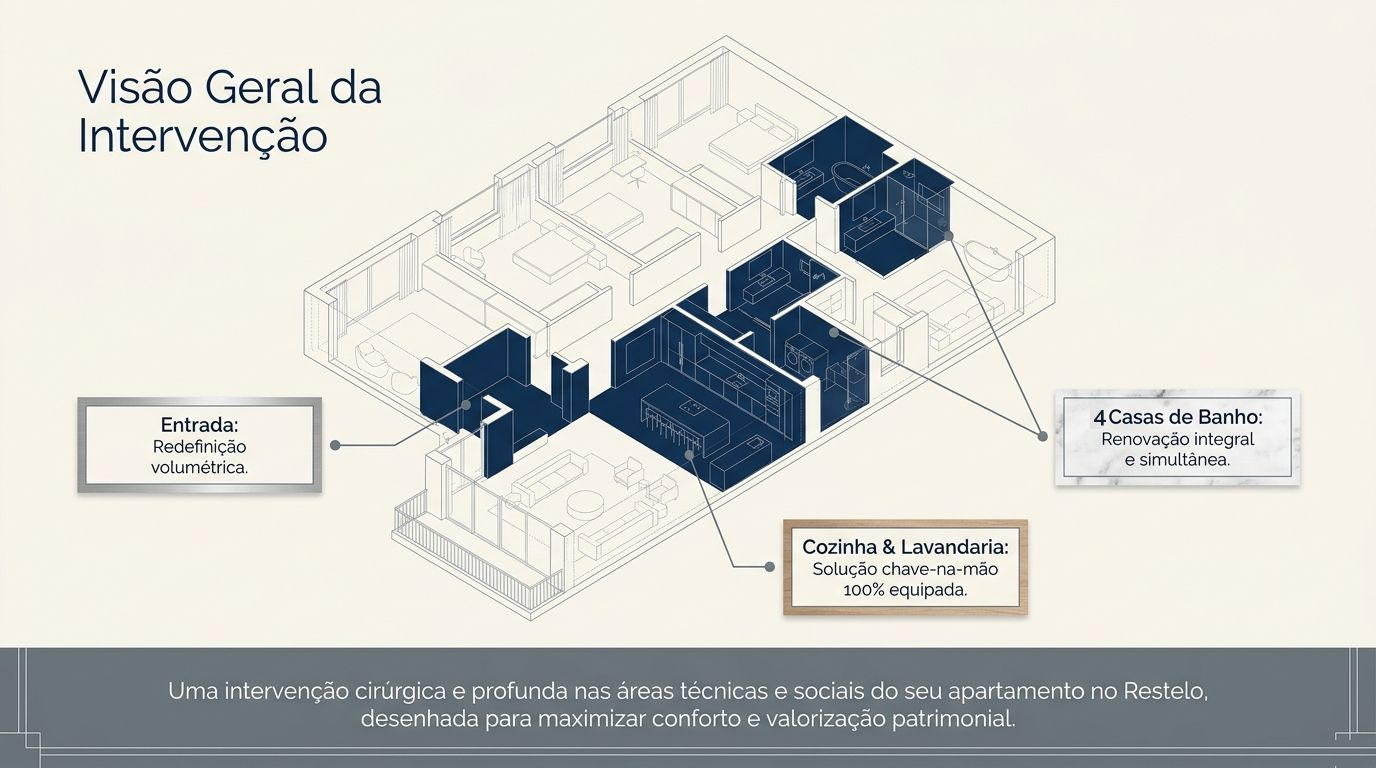
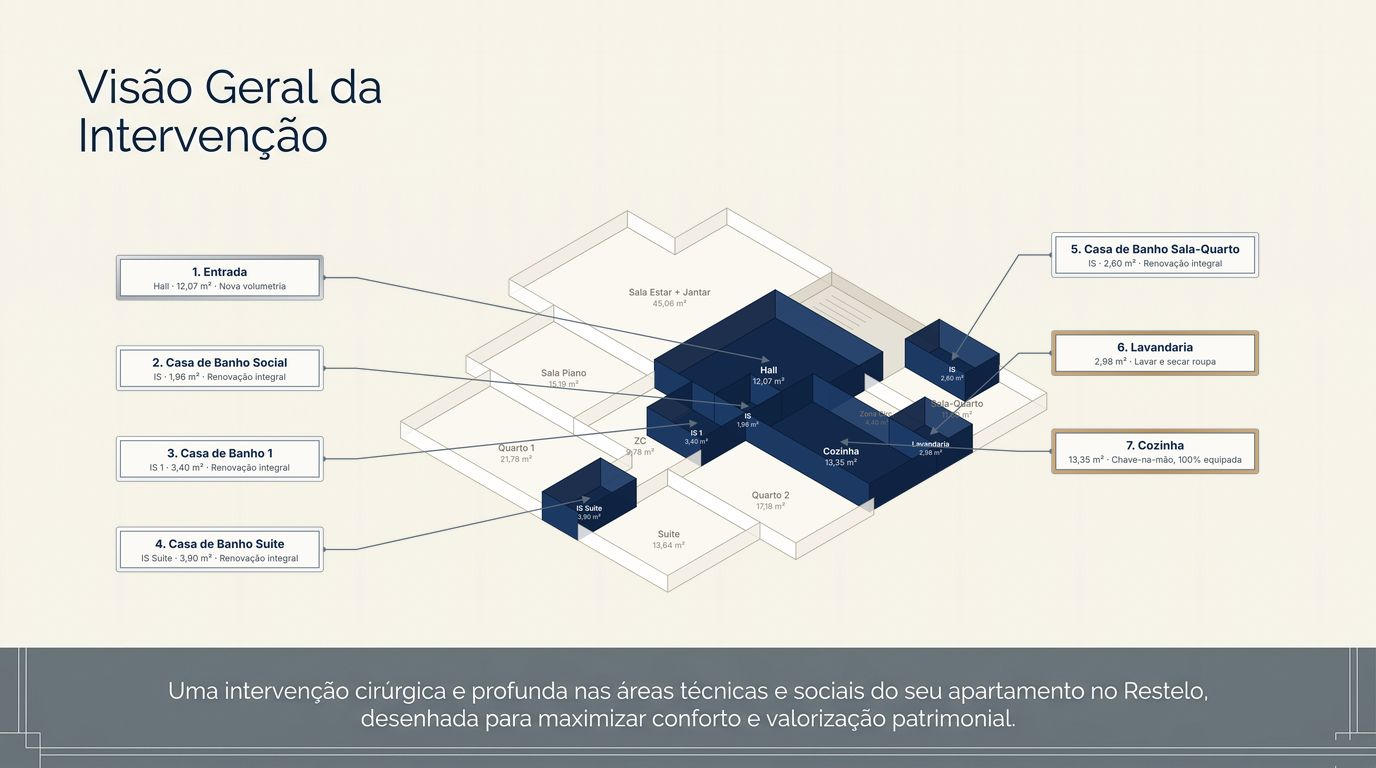
Replace floor plan with a 3D plan of the new layout and 7 division callouts
plan3d.js draws the Planta_Casa_1 layout as an interactive isometric SVG,
raising the 7 intervened divisions (entrance, kitchen, laundry and the four
bathrooms) with an arrow callout for each. Slide 2 in the gallery is rebuilt
from the same drawing.

Claude-Session: https://claude.ai/code/session_01E4dV568mypNGXeEQefmwmq

Changed region(s): [[0.0312, 0.0625, 0.9688, 0.8125], [0.0938, 0.6875, 0.25, 0.75]]

diff --git a/plan3d.js b/plan3d.js
@@ -1,0 +1,134 @@
+/* Isometric 3D floor plan of the Restelo T4 (layout from Planta_Casa_1), drawn as SVG.
+   Coordinates are in pixels of the original 2D plan; the 7 intervened divisions are raised in navy
+   and each one gets a callout with an arrow. */
+(function () {
+  const ROOMS = [
+    // id, label, area, polygon, zone (null = not intervened)
+    { id: 'sala', name: 'Sala Estar + Jantar', area: '45,06', zone: null, pts: [[105, 100], [158, 100], [158, 42], [275, 42], [275, 232], [105, 232]] },
+    { id: 'core', name: 'Escadas', area: '', zone: null, core: true, pts: [[275, 42], [395, 42], [395, 105], [275, 105]] },
+    { id: 'hall', name: 'Hall', area: '12,07', zone: 'entrada', pts: [[275, 105], [395, 105], [395, 165], [377, 165], [377, 200], [342, 200], [342, 240], [275, 240]] },
+    { id: 'is_sq', name: 'IS', area: '2,60', zone: 'wc', pts: [[395, 42], [462, 42], [462, 80], [395, 80]] },
+    { id: 'salaquarto', name: 'Sala-Quarto', area: '11,60', zone: null, pts: [[462, 42], [515, 42], [515, 125], [395, 125], [395, 80], [462, 80]] },
+    { id: 'zcirc', name: 'Zona Circ.', area: '4,40', zone: null, pts: [[395, 125], [462, 125], [462, 165], [395, 165]] },
+    { id: 'lav', name: 'Lavandaria', area: '2,98', zone: 'lavandaria', pts: [[462, 125], [515, 125], [515, 165], [462, 165]] },
+    { id: 'coz', name: 'Cozinha', area: '13,35', zone: 'cozinha', pts: [[377, 165], [515, 165], [515, 240], [377, 240]] },
+    { id: 'is_soc', name: 'IS', area: '1,96', zone: 'wc', pts: [[342, 200], [377, 200], [377, 240], [342, 240]] },
+    { id: 'piano', name: 'Sala Piano', area: '15,19', zone: null, pts: [[155, 232], [275, 232], [275, 330], [155, 330]] },
+    { id: 'is1', name: 'IS 1', area: '3,40', zone: 'wc', pts: [[317, 240], [377, 240], [377, 290], [317, 290]] },
+    { id: 'zc', name: 'ZC', area: '9,78', zone: null, pts: [[275, 240], [317, 240], [317, 290], [377, 290], [377, 365], [340, 365], [340, 330], [275, 330]] },
+    { id: 'q2', name: 'Quarto 2', area: '17,18', zone: null, pts: [[377, 240], [520, 240], [520, 327], [377, 327]] },
+    { id: 'q1', name: 'Quarto 1', area: '21,78', zone: null, pts: [[182, 330], [340, 330], [340, 430], [182, 430]] },
+    { id: 'is_suite', name: 'IS Suite', area: '3,90', zone: 'wc', pts: [[340, 365], [380, 365], [380, 430], [340, 430]] },
+    { id: 'suite', name: 'Suite', area: '13,64', zone: null, pts: [[377, 327], [480, 327], [480, 430], [380, 430], [380, 365], [377, 365]] }
+  ];
+
+  // callouts: room id, title, subtitle, side, vertical slot (0..1), card style
+  const CALLOUTS = [
+    { room: 'hall', title: 'Entrada', sub: 'Hall · 12,07 m² · Nova volumetria', side: 'L', y: 0.16, style: 'steel' },
+    { room: 'is_soc', title: 'Casa de Banho Social', sub: 'IS · 1,96 m² · Renovação integral', side: 'L', y: 0.40, style: 'marble' },
+    { room: 'is1', title: 'Casa de Banho 1', sub: 'IS 1 · 3,40 m² · Renovação integral', side: 'L', y: 0.64, style: 'marble' },
+    { room: 'is_suite', title: 'Casa de Banho Suite', sub: 'IS Suite · 3,90 m² · Renovação integral', side: 'L', y: 0.88, style: 'marble' },
+    { room: 'is_sq', title: 'Casa de Banho Sala-Quarto', sub: 'IS · 2,60 m² · Renovação integral', side: 'R', y: 0.10, style: 'marble' },
+    { room: 'lav', title: 'Lavandaria', sub: '2,98 m² · Lavar e secar roupa', side: 'R', y: 0.36, style: 'wood' },
+    { room: 'coz', title: 'Cozinha', sub: '13,35 m² · Chave-na-mão, 100% equipada', side: 'R', y: 0.62, style: 'wood' }
+  ];
+
+  const W = 1400, H = 570, S = 1.25, C = Math.cos(Math.PI / 6), SN = 0.5;
+  const OX = 622, OY = 66;
+  const prj = (x, y, z = 0) => [OX + (x - y) * C * S, OY + (x + y - 200) * SN * S - z];
+  const pts = a => a.map(p => p.map(v => v.toFixed(1)).join(',')).join(' ');
+  const centroid = poly => {
+    let a = 0, cx = 0, cy = 0;
+    poly.forEach((p, i) => {
+      const q = poly[(i + 1) % poly.length], f = p[0] * q[1] - q[0] * p[1];
+      a += f; cx += (p[0] + q[0]) * f; cy += (p[1] + q[1]) * f;
+    });
+    return [cx / (3 * a), cy / (3 * a)];
+  };
+  const esc = s => s.replace(/&/g, '&amp;').replace(/</g, '&lt;');
+
+  function render(svg, opts = {}) {
+    const NS = 'http://www.w3.org/2000/svg';
+    const faces = [];
+    // edges of the raised rooms: a neighbour's low wall on the same line would cover them
+    const hiEdges = [];
+    ROOMS.filter(r => r.zone).forEach(r => r.pts.forEach((p, i) => hiEdges.push([p, r.pts[(i + 1) % r.pts.length]])));
+    const onHiEdge = (p, q) => hiEdges.some(([a, b]) => {
+      const k = a[0] === b[0] ? 0 : a[1] === b[1] ? 1 : -1;
+      if (k < 0 || p[k] !== q[k] || p[k] !== a[k]) return false;
+      const j = 1 - k, lo = Math.min(a[j], b[j]), hi = Math.max(a[j], b[j]);
+      return Math.min(p[j], q[j]) < hi && Math.max(p[j], q[j]) > lo;
+    });
+    ROOMS.forEach(r => {
+      const hi = !!r.zone, h = r.core ? 16 : hi ? 34 : 20;
+      r.pts.forEach((p, i) => {
+        const q = r.pts[(i + 1) % r.pts.length];
+        if (!hi && onHiEdge(p, q)) return;
+        const along = Math.abs(q[0] - p[0]) > Math.abs(q[1] - p[1]);
+        faces.push({ r, hi, d: (p[0] + q[0] + p[1] + q[1]) / 2, along,
+          poly: [prj(p[0], p[1]), prj(q[0], q[1]), prj(q[0], q[1], h), prj(p[0], p[1], h)] });
+      });
+    });
+    faces.sort((a, b) => a.d - b.d);
+
+    let out = `<defs>
+      <marker id="p3arrow" viewBox="0 0 10 10" refX="8.5" refY="5" markerWidth="7" markerHeight="7" orient="auto-start-reverse">
+        <path d="M0,0 L10,5 L0,10 z" fill="#5d6c7b"/></marker>
+      <linearGradient id="p3marble" x1="0" y1="0" x2="1" y2="1"><stop offset="0" stop-color="#ffffff"/><stop offset=".55" stop-color="#eef0f2"/><stop offset="1" stop-color="#f8f8f8"/></linearGradient>
+      <linearGradient id="p3wood" x1="0" y1="0" x2="1" y2="0"><stop offset="0" stop-color="#c8a679"/><stop offset=".5" stop-color="#b8925f"/><stop offset="1" stop-color="#caa87b"/></linearGradient>
+      <linearGradient id="p3steel" x1="0" y1="0" x2="1" y2="1"><stop offset="0" stop-color="#e3e5e7"/><stop offset=".5" stop-color="#a9adb1"/><stop offset="1" stop-color="#d9dbdd"/></linearGradient>
+    </defs>`;
+    // floors
+    ROOMS.forEach(r => {
+      const fill = r.core ? '#e6e1d6' : r.zone ? '#13294b' : '#fbf8f1';
+      out += `<polygon class="p3-floor${r.zone ? ' p3-hi' : ''}" data-room="${r.id}"${r.zone ? ` data-zone="${r.zone}"` : ''}
+        points="${pts(r.pts.map(p => prj(p[0], p[1])))}" fill="${fill}" stroke="${r.zone ? '#0c1d38' : '#b7b0a2'}" stroke-width="1"/>`;
+      if (r.core) {
+        for (let k = 0; k < 7; k++) {
+          const y = 52 + k * 7;
+          out += `<polyline points="${pts([prj(285, y), prj(330, y)])}" stroke="#b7b0a2" stroke-width=".8" fill="none"/>`;
+        }
+      }
+    });
+    // walls (painter's order)
+    faces.forEach(f => {
+      const fill = f.hi ? (f.along ? '#1d3a66' : '#0f2242') : f.r.core ? '#d8d2c4' : (f.along ? '#ffffff' : '#f1ede4');
+      const stroke = f.hi ? '#0b1a33' : '#a9a293';
+      out += `<polygon class="p3-wall${f.hi ? ' p3-hi' : ''}" data-room="${f.r.id}"${f.r.zone ? ` data-zone="${f.r.zone}"` : ''}
+        points="${pts(f.poly)}" fill="${fill}" fill-opacity="${f.hi ? 0.94 : 0.82}" stroke="${stroke}" stroke-width=".8"/>`;
+    });
+    // room labels
+    ROOMS.forEach(r => {
+      if (r.core) return;
+      const [cx, cy] = centroid(r.pts), [x, y] = prj(cx, cy, r.zone ? 2 : 1);
+      const col = r.zone ? '#ffffff' : '#7a7468';
+      const small = (r.pts.length && (Math.max(...r.pts.map(p => p[0])) - Math.min(...r.pts.map(p => p[0]))) < 70);
+      out += `<g class="p3-label" pointer-events="none" font-family="Inter, system-ui, sans-serif" text-anchor="middle" fill="${col}">
+        <text x="${x.toFixed(1)}" y="${(y - 1).toFixed(1)}" font-size="${small ? 8.5 : 11}" font-weight="${r.zone ? 600 : 500}">${esc(r.name)}</text>
+        <text x="${x.toFixed(1)}" y="${(y + (small ? 9 : 12)).toFixed(1)}" font-size="${small ? 7.5 : 9.5}" opacity=".85">${r.area} m²</text></g>`;
+    });
+    // callouts
+    const BW = 250, BH = 54, MX = 10;
+    CALLOUTS.forEach((c, i) => {
+      const r = ROOMS.find(o => o.id === c.room);
+      const [cx, cy] = centroid(r.pts), [ax, ay] = prj(cx, cy, 18);
+      const bx = c.side === 'L' ? MX : W - MX - BW, by = 30 + c.y * (H - 60 - BH);
+      const sx = c.side === 'L' ? bx + BW : bx, sy = by + BH / 2;
+      const midx = c.side === 'L' ? sx + 40 : sx - 40;
+      const frame = c.style === 'wood' ? 'url(#p3wood)' : c.style === 'steel' ? 'url(#p3steel)' : 'url(#p3marble)';
+      out += `<g class="p3-callout" data-zone="${r.zone}" data-room="${r.id}" tabindex="0" role="button" aria-label="${esc(c.title)}">
+        <polyline points="${pts([[sx, sy], [midx, sy], [ax, ay]])}" fill="none" stroke="#5d6c7b" stroke-width="1.4" marker-end="url(#p3arrow)"/>
+        <circle cx="${sx}" cy="${sy}" r="3.2" fill="#5d6c7b"/>
+        <rect x="${bx}" y="${by}" width="${BW}" height="${BH}" rx="3" fill="${frame}" stroke="#8d949b" stroke-width="1"/>
+        <rect class="p3-card" x="${bx + 5}" y="${by + 5}" width="${BW - 10}" height="${BH - 10}" fill="#fbfaf6" stroke="#5d6c7b" stroke-width="1"/>
+        <text x="${bx + BW / 2}" y="${by + 25}" text-anchor="middle" font-family="Inter Tight, Inter, sans-serif" font-size="14" font-weight="700" fill="#13294b">${i + 1}. ${esc(c.title)}</text>
+        <text x="${bx + BW / 2}" y="${by + 41}" text-anchor="middle" font-family="Inter, sans-serif" font-size="10.5" fill="#414c58">${esc(c.sub)}</text>
+      </g>`;
+    });
+    svg.setAttribute('viewBox', `0 0 ${W} ${H}`);
+    svg.setAttribute('xmlns', NS);
+    svg.innerHTML = out;
+  }
+
+  window.Plan3D = { render, ROOMS, CALLOUTS };
+})();

diff --git a/index.html b/index.html
@@ -9,6 +9,7 @@
 <link rel="preconnect" href="https://fonts.gstatic.com" crossorigin>
 <link href="https://fonts.googleapis.com/css2?family=Inter+Tight:wght@300;400;500;600;700;800&family=Inter:wght@400;500;600&display=swap" rel="stylesheet">
 <script src="vendor/chart.umd.min.js"></script>
+<script src="plan3d.js"></script>
 <style>
 :root {
   --navy: #13294b;
@@ -162,8 +163,17 @@ h2 { font-size: clamp(28px, 3.4vw, 44px); font-weight: 400; color: var(--navy); 
 }
 .chip:hover { border-color: var(--navy); }
 .chip.on { background: var(--navy); border-color: var(--navy); color: #fff; }
-.overview { display: grid; grid-template-columns: 1.7fr 1fr; gap: 24px; align-items: stretch; }
-.overview .stage { background: #f6f2ea; border-radius: var(--radius); }
+.overview { display: grid; grid-template-columns: 1fr; gap: 20px; }
+.overview .stage { background: #f6f2ea; border-radius: var(--radius); padding: 8px; overflow: hidden; }
+.plan-scroll { overflow-x: auto; }
+.plan-scroll svg { display: block; width: 100%; height: auto; min-width: 860px; }
+.plan3d .p3-hi, .plan3d .p3-callout { cursor: pointer; }
+.plan3d .p3-hi { transition: fill .2s; }
+.plan3d .p3-floor.on { fill: #b08a5e; }
+.plan3d .p3-wall.on { fill: #9c7748; }
+.plan3d .p3-callout .p3-card { transition: stroke .2s, stroke-width .2s; }
+.plan3d .p3-callout.on .p3-card, .plan3d .p3-callout:hover .p3-card, .plan3d .p3-callout:focus .p3-card { stroke: #b08a5e; stroke-width: 2.5; }
+.plan3d .p3-callout:focus { outline: none; }
 .zone-panel { padding: 24px; display: flex; flex-direction: column; gap: 12px; }
 .zone-panel h3 { font-size: 26px; font-weight: 500; color: var(--navy); }
 .zone-panel .tag { font-size: 12px; letter-spacing: .12em; text-transform: uppercase; color: var(--wood); font-weight: 600; }
@@ -383,6 +393,7 @@ body.present .pres-hint { display: block; }
   .matrix tbody th { font-size: 12.5px; }
   .matrix thead th { font-size: 11.5px; }
   .hs { width: 28px; height: 28px; }
+  .plan-scroll svg { min-width: 720px; }
   .lightbox { padding: 50px 10px; }
 }
 </style>
@@ -470,15 +481,8 @@ body.present .pres-hint { display: block; }
       <button class="chip" data-zone="wc">4 Casas de Banho</button>
     </div>
     <div class="overview">
-      <div class="stage card" id="planStage">
-        <img src="assets/planta_iso.jpg" alt="Planta isométrica do apartamento T4 no Restelo com as zonas intervencionadas a azul" width="1260" height="612">
-        <button class="hs dot" data-zone="entrada" style="left:32.1%;top:62.6%" aria-label="Entrada"></button>
-        <button class="hs dot" data-zone="cozinha" style="left:49.8%;top:70.7%" aria-label="Cozinha"></button>
-        <button class="hs dot" data-zone="lavandaria" style="left:58.9%;top:55.2%" aria-label="Lavandaria"></button>
-        <button class="hs dot" data-zone="wc" style="left:60.6%;top:22.5%" aria-label="Casa de banho 1"></button>
-        <button class="hs dot" data-zone="wc" style="left:66.3%;top:33.5%" aria-label="Casa de banho 2"></button>
-        <button class="hs dot" data-zone="wc" style="left:57.3%;top:42.8%" aria-label="Casa de banho 3"></button>
-        <button class="hs dot" data-zone="wc" style="left:73.8%;top:39.2%" aria-label="Casa de banho 4"></button>
+      <div class="stage card plan3d" id="planStage">
+        <div class="plan-scroll"><svg id="plan3d" role="img" aria-label="Planta 3D do apartamento T4 no Restelo com as 7 divisões intervencionadas a azul"></svg></div>
       </div>
       <div class="card zone-panel" id="zonePanel"></div>
     </div>
@@ -797,25 +801,29 @@ const ZONES = {
   },
   entrada: {
     tag: 'Entrada', title: 'Redefinição volumétrica.',
-    text: ['Construção de uma nova parede em pladur (gesso cartonado) para redefinir o fluxo de entrada.',
+    text: ['Hall · 12,07 m².',
+           'Construção de uma nova parede em pladur (gesso cartonado) para redefinir o fluxo de entrada.',
            'Retoques de pintura rigorosos em toda a zona envolvente.'],
     go: 'entrada', goLabel: 'Ver Zona de Entrada'
   },
   cozinha: {
     tag: 'Cozinha & Lavandaria', title: 'Solução chave-na-mão 100% equipada.',
-    text: ['Móveis aéreos e abaixo da bancada, plano de trabalho e zona de águas.',
+    text: ['Cozinha · 13,35 m².',
+           'Móveis aéreos e abaixo da bancada, plano de trabalho e zona de águas.',
            '6 eletrodomésticos: placa a gás, forno elétrico, exaustor, micro-ondas, máquina de lavar loiça e esquentador.'],
     go: 'cozinha', goLabel: 'Ver Cozinha'
   },
   lavandaria: {
     tag: 'Cozinha & Lavandaria', title: 'Utilidade e Eficiência.',
-    text: ['Fornecimento e instalação de Máquina de Lavar Roupa e Máquina de Secar Roupa.',
+    text: ['Lavandaria · 2,98 m².',
+           'Fornecimento e instalação de Máquina de Lavar Roupa e Máquina de Secar Roupa.',
            'Todas as conexões necessárias (águas e eletricidade) para funcionamento imediato.'],
     go: 'lavandaria', goLabel: 'Ver Lavandaria'
   },
   wc: {
     tag: '4 Casas de Banho', title: 'Renovação integral e simultânea.',
-    text: ['Da demolição inicial ao detalhe do acabamento final.',
+    text: ['IS social (1,96 m²), IS 1 (3,40 m²), IS Suite (3,90 m²) e IS da Sala-Quarto (2,60 m²).',
+           'Da demolição inicial ao detalhe do acabamento final.',
            'Ventilação (Ventax), novo pavimento, azulejos premium, loiças, resguardo, espelho e torneiras.'],
     go: 'wc', goLabel: 'Ver Casas de Banho'
   }
@@ -893,7 +901,7 @@ link('#corteStage', '.corte', CORTE);
 function setZone(z) {
   const d = ZONES[z];
   $$('#zoneChips .chip').forEach(c => c.classList.toggle('on', c.dataset.zone === z));
-  $$('#planStage .hs').forEach(h => h.classList.toggle('on', z !== 'todas' && h.dataset.zone === z));
+  $$('#plan3d [data-zone]').forEach(h => h.classList.toggle('on', z !== 'todas' && h.dataset.zone === z));
   const col = ZONE_OF_COL.indexOf(z);
   const works = col < 0 ? ROWS.map(r => r[0]) : ROWS.filter(r => r[1][col]).map(r => r[0]);
   $('#zonePanel').innerHTML = `
@@ -905,9 +913,13 @@ function setZone(z) {
     <a class="btn go" href="#${d.go}">${d.goLabel} →</a>`;
 }
 $$('#zoneChips .chip').forEach(c => c.addEventListener('click', () => setZone(c.dataset.zone)));
-$$('#planStage .hs').forEach(h => {
+Plan3D.render($('#plan3d'));
+{ const sc = $('.plan-scroll'); sc.scrollLeft = (sc.scrollWidth - sc.clientWidth) / 2; }
+$$('#plan3d .p3-hi, #plan3d .p3-callout').forEach(h => {
+  const room = Plan3D.ROOMS.find(r => r.id === h.dataset.room);
   h.addEventListener('click', () => setZone(h.dataset.zone));
-  h.addEventListener('mouseenter', () => showTip(h, ZONES[h.dataset.zone].tag, ZONES[h.dataset.zone].title));
+  h.addEventListener('keydown', e => { if (e.key === 'Enter' || e.key === ' ') { e.preventDefault(); setZone(h.dataset.zone); } });
+  h.addEventListener('mouseenter', () => showTip(h, `${room.name} · ${room.area} m²`, ZONES[h.dataset.zone].tag));
   h.addEventListener('mouseleave', hideTip);
 });
 setZone('todas');

diff --git a/tools/render_plan.js b/tools/render_plan.js
@@ -1,0 +1,15 @@
+// Renders the 3D plan (plan3d.js) to tools/plan3d.png, used by crop.py to rebuild slide 2.
+// Usage: node tools/render_plan.js   (needs playwright + a Chromium; CHROMIUM=/path overrides the browser)
+const path = require('path');
+const { chromium } = require('playwright');
+(async () => {
+  const root = path.resolve(__dirname, '..');
+  const b = await chromium.launch({ args: ['--no-sandbox'], executablePath: process.env.CHROMIUM || undefined });
+  const p = await b.newPage({ viewport: { width: 1400, height: 570 }, deviceScaleFactor: 2 });
+  await p.setContent(`<!doctype html><meta charset="utf-8"><body style="margin:0;background:transparent">
+    <svg id="s" style="width:1400px;height:570px"></svg></body>`);
+  await p.addScriptTag({ path: path.join(root, 'plan3d.js') });
+  await p.evaluate(() => Plan3D.render(document.getElementById('s')));
+  await p.screenshot({ path: path.join(__dirname, 'plan3d.png'), omitBackground: true });
+  await b.close();
+})();

diff --git a/tools/patch_slides.py b/tools/patch_slides.py
@@ -6,7 +6,6 @@ from PIL import Image, ImageDraw, ImageFont
 
 FONTS = os.path.join(os.path.dirname(__file__), 'fonts')
 INTER = os.path.join(FONTS, 'Inter-Regular.otf')
-RALEWAY = os.path.join(FONTS, 'raleway-latin-600-normal.woff')
 RC = os.path.join(FONTS, 'roboto-condensed-latin-400-normal.woff')
 RC_BOLD = os.path.join(FONTS, 'roboto-condensed-latin-800-normal.woff')
 
@@ -49,8 +48,16 @@ def slide1(im):
 
 
 def slide2(im):
-    f = font_for_width(RALEWAY, '3 Casas de Banho:', 1291 - 1093)
-    swap(im, (1090, 406, 1104, 429), '4', f, (21, 28, 43), 404, False)
+    """Replace the old floor plan with the 3D plan of the current layout (tools/plan3d.png)."""
+    plan = Image.open(os.path.join(os.path.dirname(__file__), 'plan3d.png')).convert('RGBA')
+    src = im.copy()
+    strip = src.crop((0, 0, 60, 645))
+    for i, x in enumerate(range(0, 1376, 60)):
+        im.paste(strip if i % 2 == 0 else strip.transpose(Image.FLIP_LEFT_RIGHT), (x, 0))
+    im.paste(src.crop((60, 50, 410, 175)), (60, 50))  # title
+    h = 472
+    plan = plan.resize((round(plan.width * h / plan.height), h), Image.LANCZOS)
+    im.paste(plan, ((1376 - plan.width) // 2, 170), plan)
 
 
 def slide4(im):

diff --git a/tools/crop.py b/tools/crop.py
@@ -13,8 +13,6 @@ def load(n):
 def save(im, name, q=84): im.save(f'{OUT}/{name}.jpg', quality=q, optimize=True, progressive=True)
 for n in range(1, 14): save(load(n), f'slides/slide{n:02d}', 80)
 save(load(1).crop((600, 0, 1376, 738)), 'hero_torneira')
-p = load(2); ImageDraw.Draw(p).rectangle([70, 55, 395, 170], fill=p.getpixel((60, 200)))
-save(p.crop((60, 20, 1320, 632)), 'planta_iso')
 save(load(3).crop((0, 0, 688, 768)), 'entrada_parede')
 s4 = load(4)
 for i, x in enumerate((260, 567, 873)): save(s4.crop((x, 262, x + 243, 505)), f'wc_foto{i+1}')

diff --git a/README.md b/README.md
@@ -8,4 +8,7 @@ Entrada, Cozinha, Lavandaria e 3 Casas de Banho — com todo o texto e imagens d
   matriz de intervenção filtrável com gráficos, simulador de IVA, passos marcáveis, galeria dos 13 diapositivos
   originais e modo apresentação (botão ▶, setas ← →).
 - Funciona offline (Chart.js incluído em `vendor/`).
-- Imagens: `python3 tools/crop.py <pptx-extraído>/ppt/media assets` recorta-as a partir do PPTX.
+- Planta 3D: `plan3d.js` desenha em SVG a planta (layout da Planta_Casa_1) com as 7 divisões intervencionadas
+  (Entrada, Cozinha, Lavandaria e 4 casas de banho) e setas para cada uma.
+- Imagens: `node tools/render_plan.js` gera `tools/plan3d.png` e `python3 tools/crop.py <pptx-extraído>/ppt/media assets`
+  recorta os diapositivos do PPTX, aplicando as correções de `tools/patch_slides.py` (valores e planta 3D no diapositivo 2).
